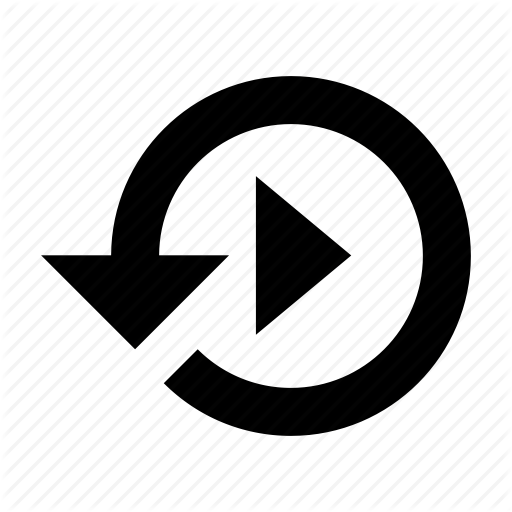
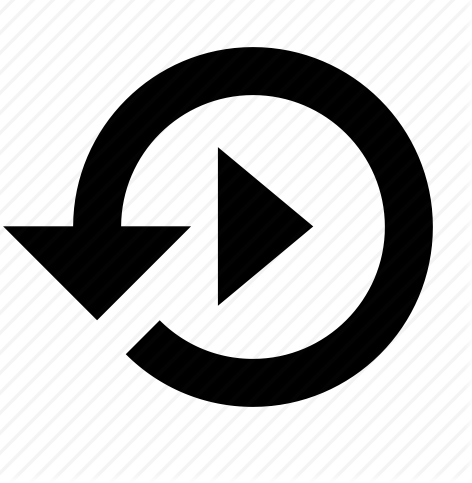
added replay button and no more error in console

diff --git a/client/app/scripts/directives/recorder.js b/client/app/scripts/directives/recorder.js
@@ -7,7 +7,7 @@
  * # recorder
  */
 angular.module('FamilySleep')
-  .directive('recorder', function () {
+  .directive('recorder', function ($timeout) {
     return {
       // restrict: 'EA', //E = element, A = attribute, C = class, M = comment
       // scope: {
@@ -23,6 +23,7 @@ angular.module('FamilySleep')
         $scope.recordRecording = false;
         $scope.recordPausing = false;
         $scope.recordStopped = false;
+        $scope.recordReplay = false;
         navigator.getUserMedia(
           {audio:true, video:false},
           function(stream) {
@@ -68,21 +69,28 @@ angular.module('FamilySleep')
           $scope.recordRecording = false;
           $scope.recordPausing = false;
           $scope.recordStopped = false;
+          $scope.recordReplay = false;
           recorder.reset();
         }
 
         //stop the recording
-        $scope.onStopRecord =  function(audioUrl) {
+        $scope.onStopRecord =  function() {
           $scope.recordStopped = true;
           $scope.recordRecording = false;
           $scope.recordPausing = false;
-          $window.recordRTC.stopRecording (function(audioUrl) {
+          $window.recordRTC.stopRecording (function() {
+            $scope.url = $window.recordRTC.toURL();
             var recordedBlob = $window.recordRTC.getBlob();
             $scope.recordedBlob = recordedBlob;
-            $scope.url = $window.recordRTC.toURL();
+            console.log($scope.url);
           });
         }
 
+        $scope.onReplayRecord =  function() {
+          $scope.recordReplay = true;
+          $scope.url = $window.recordRTC.toURL();
+        }
+        
         // sending the recording, not sure if it will get recorder back to clean slate
         $scope.onSendRecord = function() {
           var recordedBlob = $scope.recordedBlob;
@@ -104,6 +112,7 @@ angular.module('FamilySleep')
           $scope.recordRecording = false;
           $scope.recordPausing = false;
           $scope.recordStopped = false;
+          $scope.recordReplay = false;
         }
       },
       link: function ($scope, element, attrs) { } //DOM manipulation

diff --git a/client/app/views/recorder.html b/client/app/views/recorder.html
@@ -44,12 +44,21 @@
     </div>
   </div>
 
-  <div class="recorder-player" ng-if="recordStopped">
+  <div class="recorder-player" ng-show="recordReplay">
     <audio src={{url}} controls=""></audio>
   </div>
 
+  <div class="record-button" ng-if="recordStopped">
+    <md-button class="md-fab" ng-click="onReplayRecord()" aria-label="pause-button">
+      <img class="recorder-logo" src="../images/replay.png">
+    </md-button>
+    <div class="record-descrip">
+      Replay
+    </div>
+  </div>
+
   <!-- only show stop when record is recording or paused -->
-  <div class="record-button" ng-if="!recordStoppedClear">
+  <div class="record-button" ng-if="!recordStopped && !recordStoppedClear">
     <md-button class="md-fab" ng-click="onStopRecord()" aria-label="pause-button">
       <img class="recorder-logo" src="../images/stop.png">
     </md-button>
